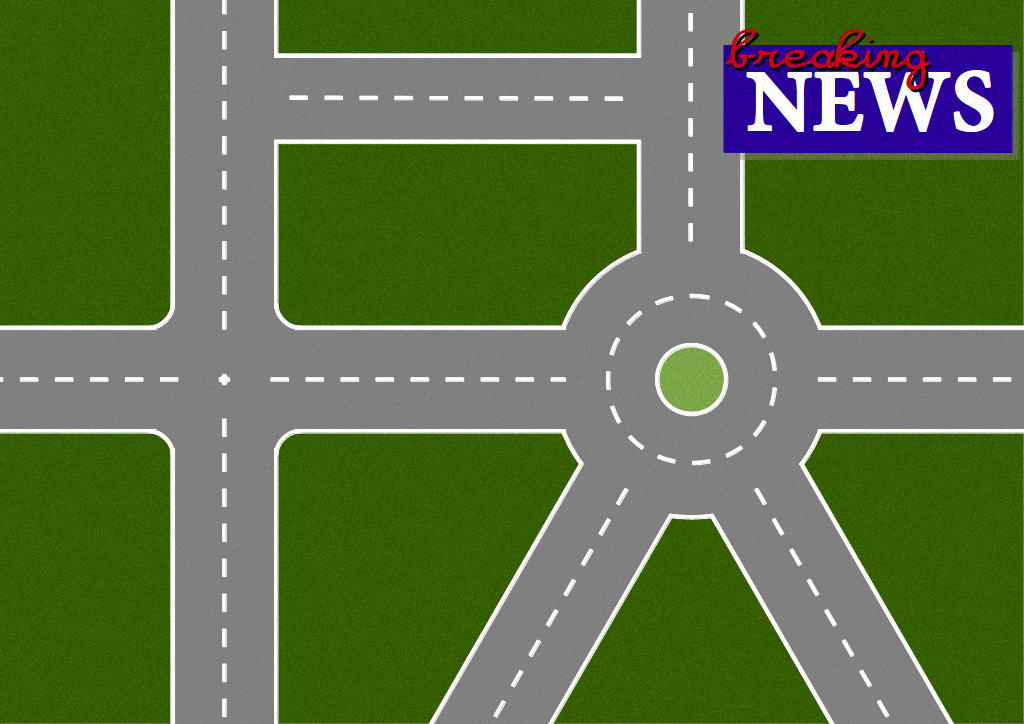
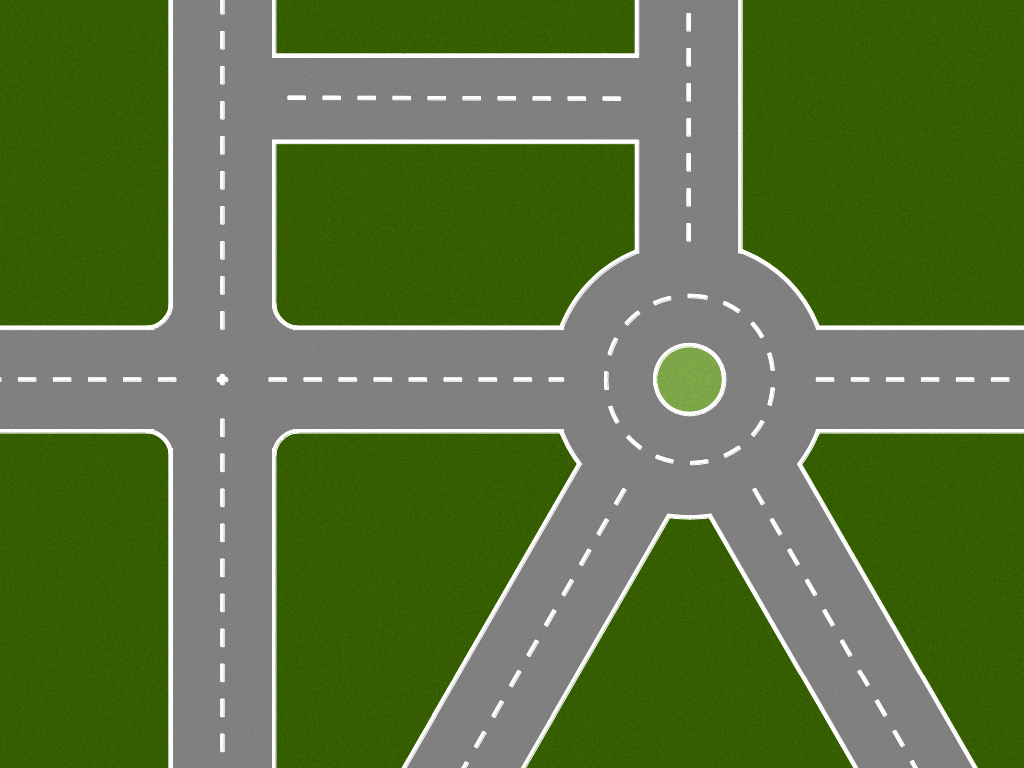
Change system for user evaluation

diff --git a/src/inprotk/carchase2/CarChaseViewer.java b/src/inprotk/carchase2/CarChaseViewer.java
@@ -44,7 +44,7 @@ public class CarChaseViewer extends PApplet {
 		return 1024;
 	}
 	public int sketchHeight() {
-		return 708;
+		return 768;
 	}
 	public String sketchRenderer() {
 		return JAVA2D;
@@ -118,42 +118,43 @@ public class CarChaseViewer extends PApplet {
 		image(map, 0, 0);
 		if (carPosition == null) return;
 		
-		PVector decisionPoint = endPoint;//wp2vec(carPath.get(carPath.size() - 1));
-		
-		strokeWeight(5);
-		stroke(255, 0, 0);
-		line(carPosition.x, carPosition.y, endPoint.x, endPoint.y);
-		ArrayList<WorldPoint> path = CarChase.get().configuration().getComingPath();
-		for (int i = 2; i < path.size(); i++) {
-			line(path.get(i - 1).x, path.get(i - 1).y, path.get(i).x, path.get(i).y);
-		}
-		
-		WorldPoint last = null;
-		if (path.size() < 2) last = path.size() == 1 ? end : start;
-		else last = path.get(path.size() - 2);
-		WorldPoint current = null;
-		if (path.size() == 0) current = end;
-		else current = path.get(path.size() - 1);
-		ArrayList<WorldPoint> possibilities = CarChase.get().configuration().getPossibilities(last, current);
-		
-		decisionPoint = wp2vec(current);
-		for (int i = 0; i < possibilities.size(); i++) {
-			PVector p = wp2vec(possibilities.get(i));
-			float dist = min(p.dist(decisionPoint), 100);
-			float theta = PVector.sub(p, decisionPoint).heading();
-			float x = dist * cos(theta) + decisionPoint.x;
-			float y = dist * sin(theta) + decisionPoint.y;
-			stroke(255, 0, 0);
-			line(decisionPoint.x, decisionPoint.y, x, y);
-			fill(255);
-			if (!possibilities.get(i).equals(path.get(path.size() - 1)) && possibilities.size() != 1)
-				noStroke();
-			rect(x - 12, y - 12, 24, 24, 4);
-			fill(0);
-			textAlign(CENTER, CENTER);
-			text("" + i, x, y);
-			stroke(255, 0, 0);
-		}
+		// Don't show the path to the user.
+//		PVector decisionPoint = endPoint;//wp2vec(carPath.get(carPath.size() - 1));
+//		
+//		strokeWeight(5);
+//		stroke(255, 0, 0);
+//		line(carPosition.x, carPosition.y, endPoint.x, endPoint.y);
+//		ArrayList<WorldPoint> path = CarChase.get().configuration().getComingPath();
+//		for (int i = 2; i < path.size(); i++) {
+//			line(path.get(i - 1).x, path.get(i - 1).y, path.get(i).x, path.get(i).y);
+//		}
+//		
+//		WorldPoint last = null;
+//		if (path.size() < 2) last = path.size() == 1 ? end : start;
+//		else last = path.get(path.size() - 2);
+//		WorldPoint current = null;
+//		if (path.size() == 0) current = end;
+//		else current = path.get(path.size() - 1);
+//		ArrayList<WorldPoint> possibilities = CarChase.get().configuration().getPossibilities(last, current);
+//		
+//		decisionPoint = wp2vec(current);
+//		for (int i = 0; i < possibilities.size(); i++) {
+//			PVector p = wp2vec(possibilities.get(i));
+//			float dist = min(p.dist(decisionPoint), 100);
+//			float theta = PVector.sub(p, decisionPoint).heading();
+//			float x = dist * cos(theta) + decisionPoint.x;
+//			float y = dist * sin(theta) + decisionPoint.y;
+//			stroke(255, 0, 0);
+//			line(decisionPoint.x, decisionPoint.y, x, y);
+//			fill(255);
+//			if (!possibilities.get(i).equals(path.get(path.size() - 1)) && possibilities.size() != 1)
+//				noStroke();
+//			rect(x - 12, y - 12, 24, 24, 4);
+//			fill(0);
+//			textAlign(CENTER, CENTER);
+//			text("" + i, x, y);
+//			stroke(255, 0, 0);
+//		}
 		
 		// Render Car
 		pushMatrix();
@@ -164,13 +165,14 @@ public class CarChaseViewer extends PApplet {
 		scale(CAR_SCALE, CAR_SCALE);
 		image(car, 0, 0);
 		popMatrix();
-
-		noStroke();
-		fill(255);
-		rect(0, 0, 120, 25, 0, 0, 10, 0);
-		fill(0);
-		textAlign(RIGHT, TOP);
-		text(CarChase.get().getTime() + "ms", 100, 2);
+		
+		// Don't show the time to the user.
+//		noStroke();
+//		fill(255);
+//		rect(0, 0, 120, 25, 0, 0, 10, 0);
+//		fill(0);
+//		textAlign(RIGHT, TOP);
+//		text(CarChase.get().getTime() + "ms", 100, 2);
 	}
 
 	

diff --git a/src/inprotk/carchase2/CarChaseExperimenter2.java b/src/inprotk/carchase2/CarChaseExperimenter2.java
@@ -38,7 +38,8 @@ public class CarChaseExperimenter2 {
 					viewer = new CarChaseViewer();
 					viewer.init();
 					frame.setLayout(new BorderLayout());
-					frame.add(CarChase.get().tts().getHypothesisViewer().getTextField(), BorderLayout.SOUTH);
+					// Don't show a hypothesis viewer to the users.
+					//frame.add(CarChase.get().tts().getHypothesisViewer().getTextField(), BorderLayout.SOUTH);
 					frame.add(viewer, BorderLayout.CENTER);
 			        frame.pack();
 					frame.setVisible(true);
